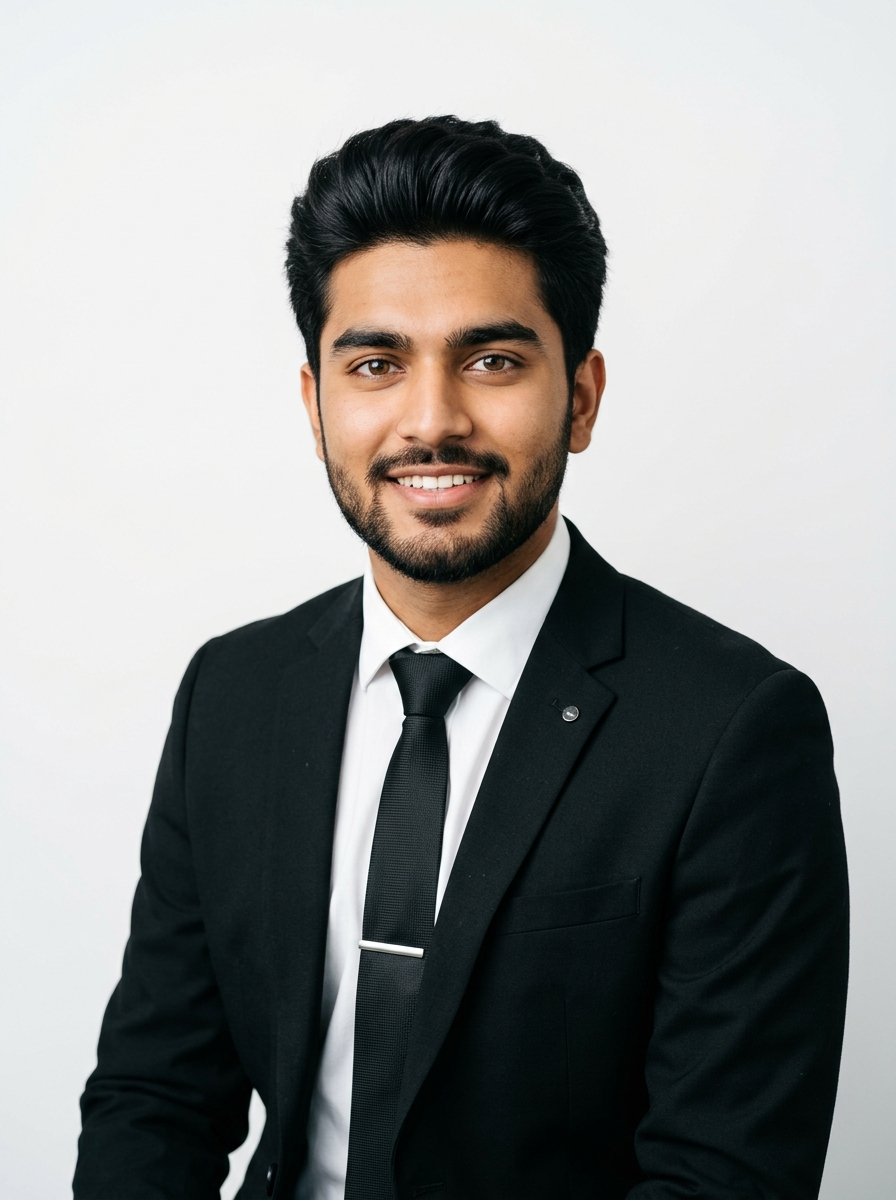
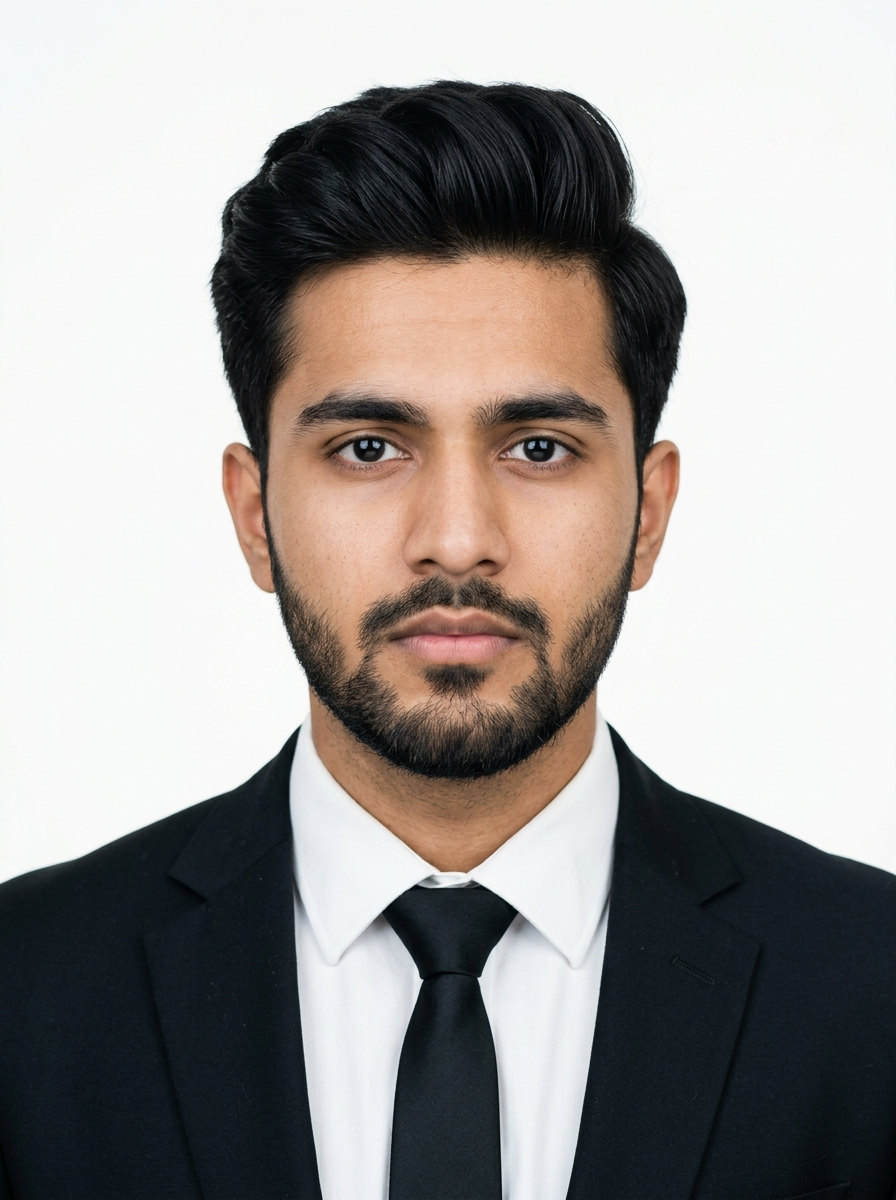
feat(profile): add context provider for dynamic photo management
Implement `PhotoContext` to manage profile image states globally, allowing users to toggle between the default profile photo and custom uploads across the application.

diff --git a/src/components/Hero.tsx b/src/components/Hero.tsx
@@ -1,6 +1,6 @@
-import React from 'react';
+import React, { useRef } from 'react';
 import { PERSONAL_INFO } from '../data/portfolioData';
-import profilePhoto from '../assets/images/aditya_profile.jpg';
+import { useProfilePhoto } from '../context/PhotoContext';
 import { 
   ArrowRight, 
   Download, 
@@ -11,7 +11,9 @@ import {
   Target, 
   Compass, 
   CheckCircle2,
-  ExternalLink
+  ExternalLink,
+  Camera,
+  RotateCcw
 } from 'lucide-react';
 
 interface HeroProps {
@@ -19,6 +21,22 @@ interface HeroProps {
 }
 
 export const Hero: React.FC<HeroProps> = ({ onOpenResume }) => {
+  const { photoUrl, setCustomPhoto, resetPhoto, isCustom } = useProfilePhoto();
+  const fileInputRef = useRef<HTMLInputElement>(null);
+
+  const handlePhotoUpload = (e: React.ChangeEvent<HTMLInputElement>) => {
+    const file = e.target.files?.[0];
+    if (file) {
+      const reader = new FileReader();
+      reader.onload = () => {
+        if (typeof reader.result === 'string') {
+          setCustomPhoto(reader.result);
+        }
+      };
+      reader.readAsDataURL(file);
+    }
+  };
+
   const scrollTo = (id: string) => {
     const el = document.getElementById(id);
     if (el) {
@@ -122,19 +140,46 @@ export const Hero: React.FC<HeroProps> = ({ onOpenResume }) => {
               <div className="w-full rounded-[22px] bg-slate-950/90 border border-slate-800/80 backdrop-blur-xl relative overflow-hidden flex flex-col">
                 
                 {/* Photo frame with graceful gradient lighting */}
-                <div className="relative aspect-[3/4] w-full overflow-hidden bg-slate-900">
+                <div className="relative aspect-[3/4] w-full overflow-hidden bg-slate-900 group">
                   <img
-                    src={profilePhoto}
+                    src={photoUrl}
                     alt="Aditya Yadav - BBA Student, Allenhouse Business School"
-                    className="w-full h-full object-cover object-top transition-transform duration-500 hover:scale-105"
+                    className="w-full h-full object-cover object-top transition-transform duration-500 group-hover:scale-105"
                     onError={(e) => {
-                      // Fallback to public profile if needed
                       (e.target as HTMLImageElement).src = `${import.meta.env.BASE_URL}profile.jpg`;
                     }}
                   />
 
                   {/* Gradient Scrim for Contrast */}
                   <div className="absolute inset-0 bg-gradient-to-t from-slate-950 via-slate-950/20 to-transparent opacity-90" />
+
+                  {/* Top-right Photo Action (Upload your exact photo) */}
+                  <div className="absolute top-3 right-3 z-30 flex items-center gap-1.5">
+                    <input
+                      ref={fileInputRef}
+                      type="file"
+                      accept="image/*"
+                      onChange={handlePhotoUpload}
+                      className="hidden"
+                    />
+                    <button
+                      onClick={() => fileInputRef.current?.click()}
+                      className="inline-flex items-center gap-1.5 px-2.5 py-1 text-[11px] font-semibold text-slate-200 bg-slate-950/80 hover:bg-slate-900 border border-slate-700/80 hover:border-sky-400 rounded-lg backdrop-blur-md transition-all shadow-md cursor-pointer"
+                      title="Upload your exact original photo.jpeg file"
+                    >
+                      <Camera className="w-3.5 h-3.5 text-sky-400" />
+                      <span>{isCustom ? 'Change Photo' : 'Upload photo.jpeg'}</span>
+                    </button>
+                    {isCustom && (
+                      <button
+                        onClick={resetPhoto}
+                        className="p-1 text-slate-400 hover:text-white bg-slate-950/80 hover:bg-slate-900 border border-slate-700/80 rounded-lg transition-colors cursor-pointer"
+                        title="Reset to default photo"
+                      >
+                        <RotateCcw className="w-3.5 h-3.5" />
+                      </button>
+                    )}
+                  </div>
 
                   {/* Bottom Nameplate Overlay */}
                   <div className="absolute bottom-0 left-0 right-0 p-5 z-10 flex flex-col">

diff --git a/src/App.tsx b/src/App.tsx
@@ -4,6 +4,7 @@
  */
 
 import React, { useState } from 'react';
+import { PhotoProvider } from './context/PhotoContext';
 import { Navbar } from './components/Navbar';
 import { Hero } from './components/Hero';
 import { About } from './components/About';
@@ -22,32 +23,34 @@ export default function App() {
   const [isResumeOpen, setIsResumeOpen] = useState(false);
 
   return (
-    <div className="min-h-screen bg-slate-950 text-slate-100 flex flex-col font-sans selection:bg-sky-500/25 selection:text-sky-200">
-      {/* Sticky Top Navigation */}
-      <Navbar onOpenResume={() => setIsResumeOpen(true)} />
+    <PhotoProvider>
+      <div className="min-h-screen bg-slate-950 text-slate-100 flex flex-col font-sans selection:bg-sky-500/25 selection:text-sky-200">
+        {/* Sticky Top Navigation */}
+        <Navbar onOpenResume={() => setIsResumeOpen(true)} />
 
-      {/* Main Content Sections */}
-      <main className="flex-1">
-        <Hero onOpenResume={() => setIsResumeOpen(true)} />
-        <About />
-        <Skills />
-        <Education />
-        <Certifications />
-        <IndustrialExposure />
-        <Workshops />
-        <Projects />
-        <CareerInterests />
-        <Contact />
-      </main>
+        {/* Main Content Sections */}
+        <main className="flex-1">
+          <Hero onOpenResume={() => setIsResumeOpen(true)} />
+          <About />
+          <Skills />
+          <Education />
+          <Certifications />
+          <IndustrialExposure />
+          <Workshops />
+          <Projects />
+          <CareerInterests />
+          <Contact />
+        </main>
 
-      {/* Footer */}
-      <Footer onOpenResume={() => setIsResumeOpen(true)} />
+        {/* Footer */}
+        <Footer onOpenResume={() => setIsResumeOpen(true)} />
 
-      {/* Interactive In-App Resume ATS Viewer & Download Modal */}
-      <ResumeModal
-        isOpen={isResumeOpen}
-        onClose={() => setIsResumeOpen(false)}
-      />
-    </div>
+        {/* Interactive In-App Resume ATS Viewer & Download Modal */}
+        <ResumeModal
+          isOpen={isResumeOpen}
+          onClose={() => setIsResumeOpen(false)}
+        />
+      </div>
+    </PhotoProvider>
   );
 }

diff --git a/src/context/PhotoContext.tsx b/src/context/PhotoContext.tsx
@@ -1,0 +1,65 @@
+import React, { createContext, useContext, useState, useEffect } from 'react';
+import defaultPhoto from '../assets/images/aditya_profile.jpg';
+
+interface PhotoContextType {
+  photoUrl: string;
+  setCustomPhoto: (dataUrl: string) => void;
+  resetPhoto: () => void;
+  isCustom: boolean;
+}
+
+const PhotoContext = createContext<PhotoContextType>({
+  photoUrl: defaultPhoto,
+  setCustomPhoto: () => {},
+  resetPhoto: () => {},
+  isCustom: false,
+});
+
+export const PhotoProvider: React.FC<{ children: React.ReactNode }> = ({ children }) => {
+  const [photoUrl, setPhotoUrl] = useState<string>(() => {
+    try {
+      const saved = localStorage.getItem('aditya_portfolio_photo');
+      return saved || defaultPhoto;
+    } catch {
+      return defaultPhoto;
+    }
+  });
+
+  const [isCustom, setIsCustom] = useState<boolean>(() => {
+    try {
+      return Boolean(localStorage.getItem('aditya_portfolio_photo'));
+    } catch {
+      return false;
+    }
+  });
+
+  const setCustomPhoto = (dataUrl: string) => {
+    try {
+      localStorage.setItem('aditya_portfolio_photo', dataUrl);
+      setPhotoUrl(dataUrl);
+      setIsCustom(true);
+    } catch (e) {
+      console.warn('Failed to save to localStorage', e);
+      setPhotoUrl(dataUrl);
+      setIsCustom(true);
+    }
+  };
+
+  const resetPhoto = () => {
+    try {
+      localStorage.removeItem('aditya_portfolio_photo');
+    } catch {
+      // ignore
+    }
+    setPhotoUrl(defaultPhoto);
+    setIsCustom(false);
+  };
+
+  return (
+    <PhotoContext.Provider value={{ photoUrl, setCustomPhoto, resetPhoto, isCustom }}>
+      {children}
+    </PhotoContext.Provider>
+  );
+};
+
+export const useProfilePhoto = () => useContext(PhotoContext);

diff --git a/src/components/ResumeModal.tsx b/src/components/ResumeModal.tsx
@@ -1,7 +1,7 @@
 import React from 'react';
 import { PERSONAL_INFO, EDUCATION_LIST, CERTIFICATIONS_LIST, INDUSTRIAL_EXPOSURE, WORKSHOPS_LIST, SKILL_CATEGORIES } from '../data/portfolioData';
+import { useProfilePhoto } from '../context/PhotoContext';
 import { X, Download, Printer, ExternalLink, Mail, Phone, MapPin, CheckCircle } from 'lucide-react';
-import profilePhoto from '../assets/images/aditya_profile.jpg';
 
 interface ResumeModalProps {
   isOpen: boolean;
@@ -9,6 +9,7 @@ interface ResumeModalProps {
 }
 
 export const ResumeModal: React.FC<ResumeModalProps> = ({ isOpen, onClose }) => {
+  const { photoUrl } = useProfilePhoto();
   if (!isOpen) return null;
 
   const handlePrint = () => {
@@ -66,7 +67,7 @@ export const ResumeModal: React.FC<ResumeModalProps> = ({ isOpen, onClose }) => 
             <div className="flex flex-col sm:flex-row items-center sm:items-start gap-4">
               <div className="w-16 h-16 rounded-xl overflow-hidden border border-slate-700 shrink-0 bg-slate-900 shadow-sm">
                 <img
-                  src={profilePhoto}
+                  src={photoUrl}
                   alt={PERSONAL_INFO.name}
                   className="w-full h-full object-cover object-top"
                   onError={(e) => {

diff --git a/src/components/About.tsx b/src/components/About.tsx
@@ -1,9 +1,10 @@
 import React from 'react';
 import { ABOUT_CARDS, PERSONAL_INFO } from '../data/portfolioData';
+import { useProfilePhoto } from '../context/PhotoContext';
 import { GraduationCap, Compass, Wrench, Target, CheckCircle2, ArrowRight } from 'lucide-react';
-import profilePhoto from '../assets/images/aditya_profile.jpg';
 
 export const About: React.FC = () => {
+  const { photoUrl } = useProfilePhoto();
   const cardIcons = [
     GraduationCap,
     Compass,
@@ -72,7 +73,7 @@ export const About: React.FC = () => {
             <div className="flex items-center gap-4 mb-5 pb-5 border-b border-slate-800/80">
               <div className="w-14 h-14 rounded-xl overflow-hidden border border-slate-700 shrink-0 bg-slate-900 shadow-md">
                 <img
-                  src={profilePhoto}
+                  src={photoUrl}
                   alt={PERSONAL_INFO.name}
                   className="w-full h-full object-cover object-top"
                   onError={(e) => {
